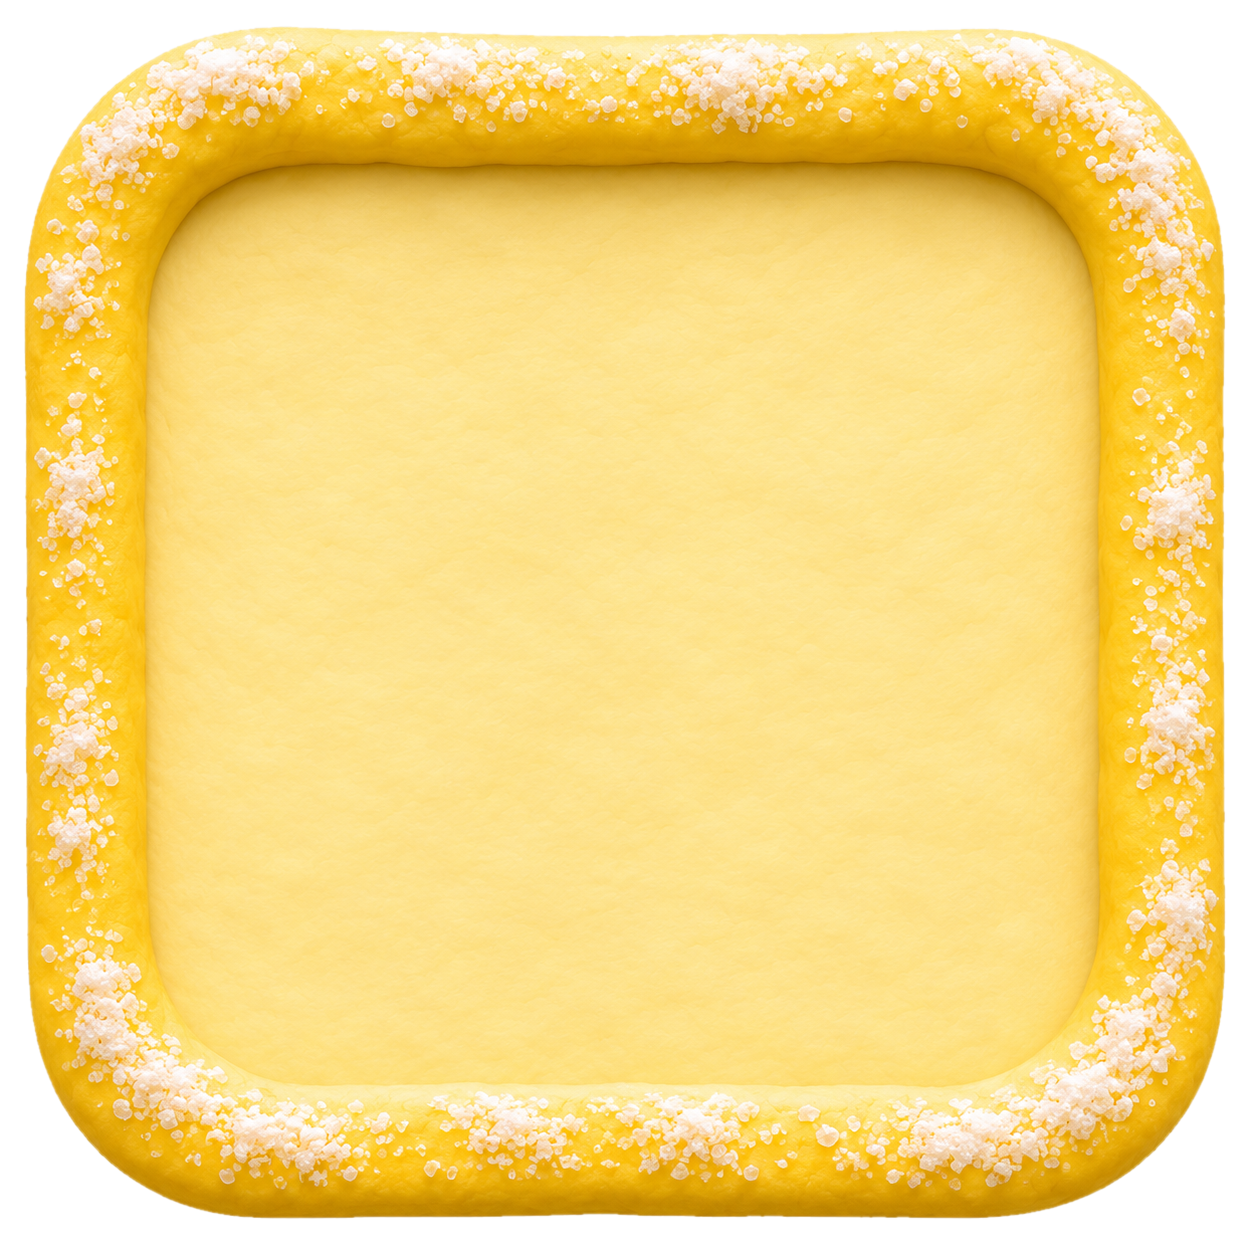
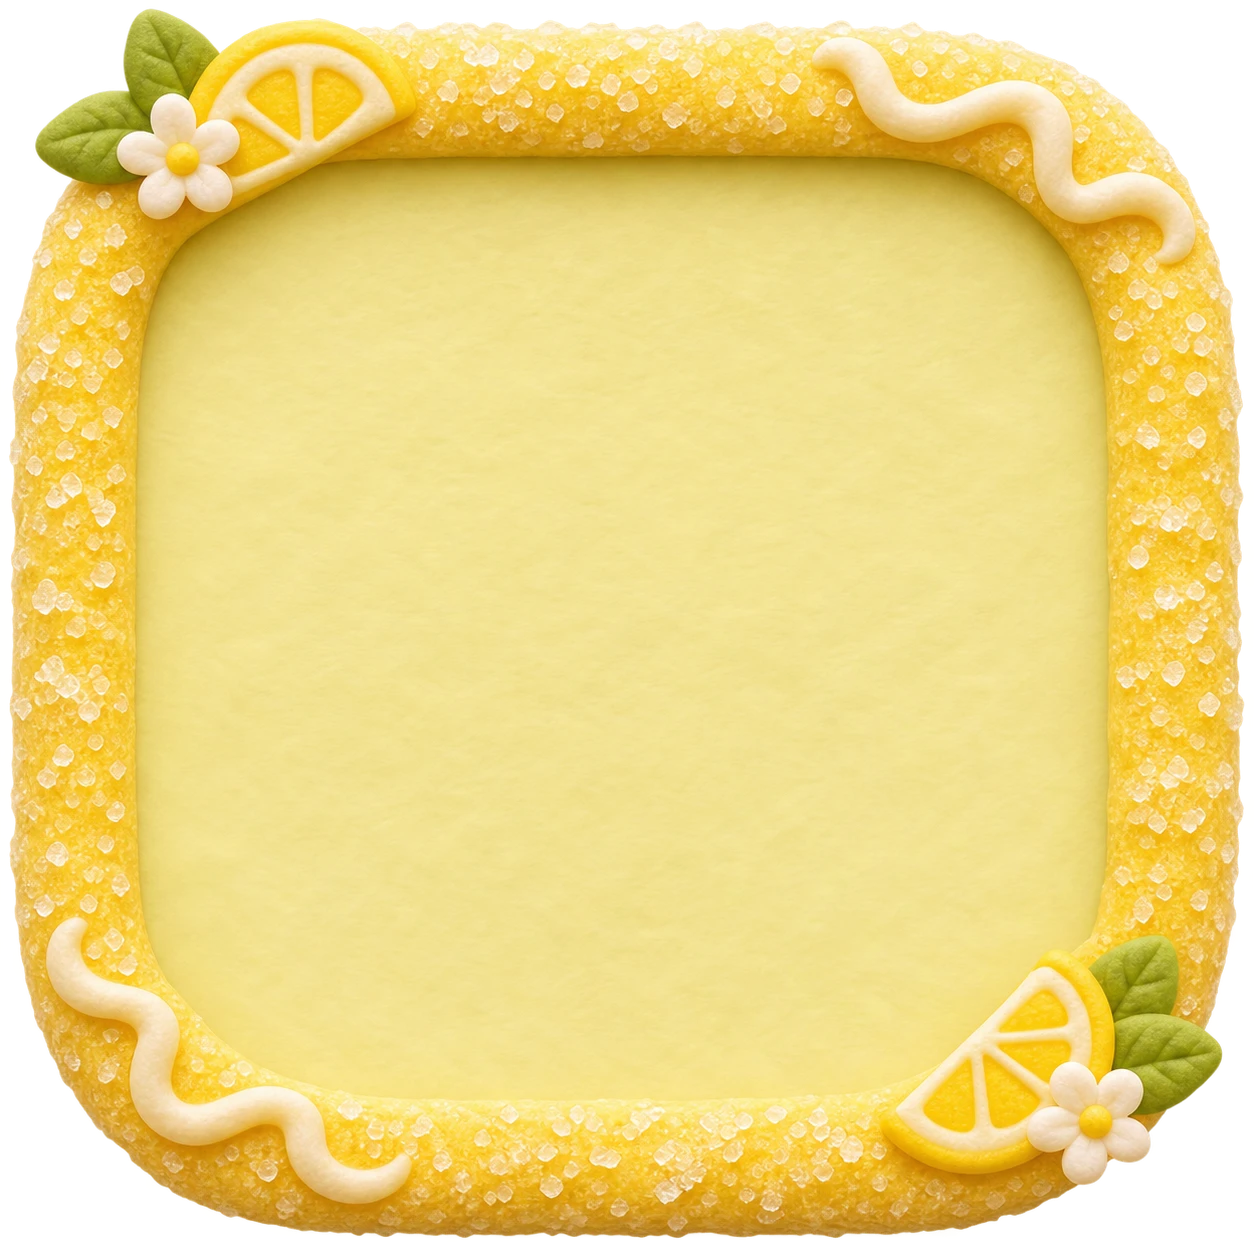
Gece, gün batımı ve çikolata süsleri; orman karosu ve limon tepsisi yenilendi
Claude-Session: https://claude.ai/code/session_013YjY38wA9HkTsRWqx1GxrD

diff --git a/www/sw.js b/www/sw.js
@@ -1,6 +1,6 @@
 // Çevrimdışı: önbellekten anında aç, arkada güncelle (stale-while-revalidate).
 // Yeni dosya eklenince F listesine girer (robot www/ ile listeyi karşılaştırır: tools/hakem.cjs "sw.liste").
-const C = 'hamur-v98', F = ['./', 'index.html', 'style.css', 'i18n.js', 'ses.js', 'olcum.js', 'ads.js', 'shop.js', 'app.js', 'game.js', 'ekran.js', 'acilis.js', 'bolumler.js', 'rules/cekirdek.js', 'rules/cozucu.js', 'font/baloo-latin-ext.woff2', 'font/baloo-latin.woff2', 'font/titan-latin-ext.woff2', 'font/titan-latin.woff2', 'img/ac-kirmizi.webp', 'img/ac-mavi.webp', 'img/ac-mor.webp', 'img/ac-sari.webp', 'img/ac-turuncu.webp', 'img/ac-un-atan.webp', 'img/ac-un-yiyen.webp', 'img/ac-yesil.webp', 'img/acilis-grup.webp', 'img/acilis.webp', 'img/ada-sag.webp', 'img/ada-sol.webp', 'img/ada.webp', 'img/akrep.webp', 'img/ayarlar.webp', 'img/bastan.webp', 'img/blok-b.webp', 'img/blok-g.webp', 'img/blok-krem.webp', 'img/blok-o.webp', 'img/blok-p.webp', 'img/blok-r.webp', 'img/blok-y.webp', 'img/blok.webp', 'img/bulut-1.webp', 'img/bulut-2.webp', 'img/bulut-3.webp', 'img/bulut-4.webp', 'img/bulut-5.webp', 'img/bulut-6.webp', 'img/bulut-seti.webp', 'img/buz.webp', 'img/canta.webp', 'img/damgalar.webp', 'img/doku.webp', 'img/dugme-ayar.webp', 'img/dugme-canta.webp', 'img/dugme-geri.webp', 'img/duraklat.webp', 'img/duvar.webp', 'img/el.webp', 'img/figur-1.webp', 'img/figur-10.webp', 'img/figur-11.webp', 'img/figur-12.webp', 'img/figur-2.webp', 'img/figur-3.webp', 'img/figur-4.webp', 'img/figur-5.webp', 'img/figur-6.webp', 'img/figur-7.webp', 'img/figur-8.webp', 'img/figur-9.webp', 'img/geri.webp', 'img/girdap.webp', 'img/gok-2.webp', 'img/gok-3.webp', 'img/gok-4.webp', 'img/gok-5.webp', 'img/gok-6.webp', 'img/gok-7.webp', 'img/gok-8.webp', 'img/gok-9.webp', 'img/gok-derin.webp', 'img/gok.webp', 'img/gok2.webp', 'img/guc.webp', 'img/gunluk.webp', 'img/hamur-dilim.webp', 'img/hamur-serit.webp', 'img/hap-kirmizi.webp', 'img/hap-mavi.webp', 'img/hap-mor.webp', 'img/hap-sari.webp', 'img/hap-turuncu.webp', 'img/hap-yesil.webp', 'img/hayvan-1.webp', 'img/hayvan-2.webp', 'img/hayvan-3.webp', 'img/hayvan-4.webp', 'img/hayvan-5.webp', 'img/hayvan-6.webp', 'img/hucre-2.webp', 'img/hucre-3.webp', 'img/hucre-4.webp', 'img/hucre-5.webp', 'img/hucre-6.webp', 'img/hucre-7.webp', 'img/hucre-8.webp', 'img/hucre-9.webp', 'img/hucre.webp', 'img/ikon-192.png', 'img/ikon-512.png', 'img/kadran.webp', 'img/kahraman.webp', 'img/kalp-eriyor.webp', 'img/kalp.webp', 'img/kapat.webp', 'img/kar-1.webp', 'img/kar-2.webp', 'img/kar-3-kare.webp', 'img/kar-3.webp', 'img/kar-4-kare.webp', 'img/kar-4.webp', 'img/kar-5.webp', 'img/kar-6.webp', 'img/kat-orta.webp', 'img/kat-uzak.webp', 'img/kat-yakin.webp', 'img/kayip-sure.webp', 'img/kayip-yapisma.webp', 'img/kazanc.webp', 'img/kilit.webp', 'img/klaket.webp', 'img/kurabiye-bos.webp', 'img/kurabiye-kilitli.webp', 'img/kurabiye-siradaki.webp', 'img/kurabiye-tamam.webp', 'img/logo.webp', 'img/m-alev.webp', 'img/m-canta.webp', 'img/m-hediye.webp', 'img/m-kalpler.webp', 'img/m-reklamsiz.webp', 'img/m-sandik.webp', 'img/makas-kapali.webp', 'img/makas.webp', 'img/n-ay.webp', 'img/n-cirpici-1.webp', 'img/n-cirpici-2.webp', 'img/n-donut.webp', 'img/n-ev.webp', 'img/n-merdiven.webp', 'img/n-oklava.webp', 'img/n-seker.webp', 'img/oynat.webp', 'img/panel.webp', 'img/parcacik.webp', 'img/pencere.webp', 'img/rozet.webp', 'img/saat.webp', 'img/serit.webp', 'img/ses.webp', 'img/sessiz.webp', 'img/sus-1.webp', 'img/sus-10.webp', 'img/sus-2.webp', 'img/sus-3.webp', 'img/sus-4.webp', 'img/sus-5.webp', 'img/sus-6.webp', 'img/sus-7.webp', 'img/sus-8.webp', 'img/sus-9.webp', 'img/sus-d4-1.webp', 'img/sus-d4-2.webp', 'img/sus-d4-3.webp', 'img/sus-d4-4.webp', 'img/sus-d4-5.webp', 'img/sus-d4-6.webp', 'img/sus-d5-1.webp', 'img/sus-d5-2.webp', 'img/sus-d5-3.webp', 'img/sus-d5-4.webp', 'img/sus-d5-5.webp', 'img/sus-d5-6.webp', 'img/sus-d7-1.webp', 'img/sus-d7-2.webp', 'img/sus-d7-3.webp', 'img/sus-d7-4.webp', 'img/sus-d7-5.webp', 'img/sus-d7-6.webp', 'img/sus-d8-1.webp', 'img/sus-d8-2.webp', 'img/sus-d8-3.webp', 'img/sus-d8-4.webp', 'img/sus-d8-5.webp', 'img/sus-d8-6.webp', 'img/sus-d9-1.webp', 'img/sus-d9-2.webp', 'img/sus-d9-3.webp', 'img/sus-d9-4.webp', 'img/sus-d9-5.webp', 'img/sus-d9-6.webp', 'img/tarif.webp', 'img/tepsi-2.webp', 'img/tepsi-3.webp', 'img/tepsi-4.webp', 'img/tepsi-5.webp', 'img/tepsi-6.webp', 'img/tepsi-7.webp', 'img/tepsi-8.webp', 'img/tepsi-9.webp', 'img/tepsi.webp', 'img/top-kirmizi.webp', 'img/top-mavi.webp', 'img/top-mor.webp', 'img/top-sari.webp', 'img/top-yesil.webp', 'img/yildiz-bos.webp', 'img/yildiz-yuz.webp', 'img/yildiz.webp', 'img/yol.webp', 'img/yuz-dikey.webp', 'img/yuzler.webp', ...['de', 'es', 'pt-BR', 'fr'].map(l => `lang/${l}.js`), 'ses/kayip.mp3', 'ses/kazan.mp3', 'ses/kes.mp3', 'ses/muzik.mp3', 'ses/otur.mp3', 'ses/yapis.mp3', 'manifest.json'];
+const C = 'hamur-v99', F = ['./', 'index.html', 'style.css', 'i18n.js', 'ses.js', 'olcum.js', 'ads.js', 'shop.js', 'app.js', 'game.js', 'ekran.js', 'acilis.js', 'bolumler.js', 'rules/cekirdek.js', 'rules/cozucu.js', 'font/baloo-latin-ext.woff2', 'font/baloo-latin.woff2', 'font/titan-latin-ext.woff2', 'font/titan-latin.woff2', 'img/ac-kirmizi.webp', 'img/ac-mavi.webp', 'img/ac-mor.webp', 'img/ac-sari.webp', 'img/ac-turuncu.webp', 'img/ac-un-atan.webp', 'img/ac-un-yiyen.webp', 'img/ac-yesil.webp', 'img/acilis-grup.webp', 'img/acilis.webp', 'img/ada-sag.webp', 'img/ada-sol.webp', 'img/ada.webp', 'img/akrep.webp', 'img/ayarlar.webp', 'img/bastan.webp', 'img/blok-b.webp', 'img/blok-g.webp', 'img/blok-krem.webp', 'img/blok-o.webp', 'img/blok-p.webp', 'img/blok-r.webp', 'img/blok-y.webp', 'img/blok.webp', 'img/bulut-1.webp', 'img/bulut-2.webp', 'img/bulut-3.webp', 'img/bulut-4.webp', 'img/bulut-5.webp', 'img/bulut-6.webp', 'img/bulut-seti.webp', 'img/buz.webp', 'img/canta.webp', 'img/damgalar.webp', 'img/doku.webp', 'img/dugme-ayar.webp', 'img/dugme-canta.webp', 'img/dugme-geri.webp', 'img/duraklat.webp', 'img/duvar.webp', 'img/el.webp', 'img/figur-1.webp', 'img/figur-10.webp', 'img/figur-11.webp', 'img/figur-12.webp', 'img/figur-2.webp', 'img/figur-3.webp', 'img/figur-4.webp', 'img/figur-5.webp', 'img/figur-6.webp', 'img/figur-7.webp', 'img/figur-8.webp', 'img/figur-9.webp', 'img/geri.webp', 'img/girdap.webp', 'img/gok-2.webp', 'img/gok-3.webp', 'img/gok-4.webp', 'img/gok-5.webp', 'img/gok-6.webp', 'img/gok-7.webp', 'img/gok-8.webp', 'img/gok-9.webp', 'img/gok-derin.webp', 'img/gok.webp', 'img/gok2.webp', 'img/guc.webp', 'img/gunluk.webp', 'img/hamur-dilim.webp', 'img/hamur-serit.webp', 'img/hap-kirmizi.webp', 'img/hap-mavi.webp', 'img/hap-mor.webp', 'img/hap-sari.webp', 'img/hap-turuncu.webp', 'img/hap-yesil.webp', 'img/hayvan-1.webp', 'img/hayvan-2.webp', 'img/hayvan-3.webp', 'img/hayvan-4.webp', 'img/hayvan-5.webp', 'img/hayvan-6.webp', 'img/hucre-2.webp', 'img/hucre-3.webp', 'img/hucre-4.webp', 'img/hucre-5.webp', 'img/hucre-6.webp', 'img/hucre-7.webp', 'img/hucre-8.webp', 'img/hucre-9.webp', 'img/hucre.webp', 'img/ikon-192.png', 'img/ikon-512.png', 'img/kadran.webp', 'img/kahraman.webp', 'img/kalp-eriyor.webp', 'img/kalp.webp', 'img/kapat.webp', 'img/kar-1.webp', 'img/kar-2.webp', 'img/kar-3-kare.webp', 'img/kar-3.webp', 'img/kar-4-kare.webp', 'img/kar-4.webp', 'img/kar-5.webp', 'img/kar-6.webp', 'img/kat-orta.webp', 'img/kat-uzak.webp', 'img/kat-yakin.webp', 'img/kayip-sure.webp', 'img/kayip-yapisma.webp', 'img/kazanc.webp', 'img/kilit.webp', 'img/klaket.webp', 'img/kurabiye-bos.webp', 'img/kurabiye-kilitli.webp', 'img/kurabiye-siradaki.webp', 'img/kurabiye-tamam.webp', 'img/logo.webp', 'img/m-alev.webp', 'img/m-canta.webp', 'img/m-hediye.webp', 'img/m-kalpler.webp', 'img/m-reklamsiz.webp', 'img/m-sandik.webp', 'img/makas-kapali.webp', 'img/makas.webp', 'img/n-ay.webp', 'img/n-cirpici-1.webp', 'img/n-cirpici-2.webp', 'img/n-donut.webp', 'img/n-ev.webp', 'img/n-merdiven.webp', 'img/n-oklava.webp', 'img/n-seker.webp', 'img/oynat.webp', 'img/panel.webp', 'img/parcacik.webp', 'img/pencere.webp', 'img/rozet.webp', 'img/saat.webp', 'img/serit.webp', 'img/ses.webp', 'img/sessiz.webp', 'img/sus-1.webp', 'img/sus-10.webp', 'img/sus-2.webp', 'img/sus-3.webp', 'img/sus-4.webp', 'img/sus-5.webp', 'img/sus-6.webp', 'img/sus-7.webp', 'img/sus-8.webp', 'img/sus-9.webp', 'img/sus-d2-1.webp', 'img/sus-d2-2.webp', 'img/sus-d2-3.webp', 'img/sus-d2-4.webp', 'img/sus-d2-5.webp', 'img/sus-d2-6.webp', 'img/sus-d3-1.webp', 'img/sus-d3-2.webp', 'img/sus-d3-3.webp', 'img/sus-d3-4.webp', 'img/sus-d3-5.webp', 'img/sus-d3-6.webp', 'img/sus-d4-1.webp', 'img/sus-d4-2.webp', 'img/sus-d4-3.webp', 'img/sus-d4-4.webp', 'img/sus-d4-5.webp', 'img/sus-d4-6.webp', 'img/sus-d5-1.webp', 'img/sus-d5-2.webp', 'img/sus-d5-3.webp', 'img/sus-d5-4.webp', 'img/sus-d5-5.webp', 'img/sus-d5-6.webp', 'img/sus-d6-1.webp', 'img/sus-d6-2.webp', 'img/sus-d6-3.webp', 'img/sus-d6-4.webp', 'img/sus-d6-5.webp', 'img/sus-d6-6.webp', 'img/sus-d7-1.webp', 'img/sus-d7-2.webp', 'img/sus-d7-3.webp', 'img/sus-d7-4.webp', 'img/sus-d7-5.webp', 'img/sus-d7-6.webp', 'img/sus-d8-1.webp', 'img/sus-d8-2.webp', 'img/sus-d8-3.webp', 'img/sus-d8-4.webp', 'img/sus-d8-5.webp', 'img/sus-d8-6.webp', 'img/sus-d9-1.webp', 'img/sus-d9-2.webp', 'img/sus-d9-3.webp', 'img/sus-d9-4.webp', 'img/sus-d9-5.webp', 'img/sus-d9-6.webp', 'img/tarif.webp', 'img/tepsi-2.webp', 'img/tepsi-3.webp', 'img/tepsi-4.webp', 'img/tepsi-5.webp', 'img/tepsi-6.webp', 'img/tepsi-7.webp', 'img/tepsi-8.webp', 'img/tepsi-9.webp', 'img/tepsi.webp', 'img/top-kirmizi.webp', 'img/top-mavi.webp', 'img/top-mor.webp', 'img/top-sari.webp', 'img/top-yesil.webp', 'img/yildiz-bos.webp', 'img/yildiz-yuz.webp', 'img/yildiz.webp', 'img/yol.webp', 'img/yuz-dikey.webp', 'img/yuzler.webp', ...['de', 'es', 'pt-BR', 'fr'].map(l => `lang/${l}.js`), 'ses/kayip.mp3', 'ses/kazan.mp3', 'ses/kes.mp3', 'ses/muzik.mp3', 'ses/otur.mp3', 'ses/yapis.mp3', 'manifest.json'];
 self.addEventListener('install', e => e.waitUntil(caches.open(C).then(c => c.addAll(F)).then(() => self.skipWaiting())));
 self.addEventListener('activate', e => e.waitUntil(caches.keys().then(k => Promise.all(k.filter(x => x !== C).map(x => caches.delete(x)))).then(() => self.clients.claim())));
 self.addEventListener('fetch', e => {

diff --git a/www/game.js b/www/game.js
@@ -33,7 +33,7 @@ const lighten = (h, t) => '#' + rgb(h).map(v => Math.round(v + (255 - v) * t).to
 const tone = Ses.fx, buzz = Ses.buzz;
 // Görseller (docs/gorseller kaynaklarından küçültüldü). Yüklenene kadar düz renkle çizilir; oyun görselsiz de çalışır.
 const TEMA_GORSEL = ['tepsi-2', 'hucre-2', 'tepsi-3', 'hucre-3', 'tepsi-4', 'hucre-4', 'tepsi-5', 'hucre-5', 'tepsi-6', 'hucre-6', 'tepsi-7', 'hucre-7', 'tepsi-8', 'hucre-8', 'tepsi-9', 'hucre-9'];
-const CUKUR = { 1: '#5a2a66', 2: '#a8642c', 3: '#5fb98a', 4: '#4f9fd0', 5: '#5a3018', 6: '#7fb0d8', 7: '#d9a520', 8: '#a880d8' };   // dünyaya göre kalıp çukurunun rengi   // dünya temalarının kendi tepsi ve karo görselleri geldikçe buraya yazılır: 'tepsi-2', 'hucre-2', 'tepsi-3', 'hucre-3'
+const CUKUR = { 1: '#5a2a66', 2: '#a8642c', 3: '#5fb98a', 4: '#86b53c', 5: '#5a3018', 6: '#7fb0d8', 7: '#d9a520', 8: '#a880d8' };   // dünyaya göre kalıp çukurunun rengi   // dünya temalarının kendi tepsi ve karo görselleri geldikçe buraya yazılır: 'tepsi-2', 'hucre-2', 'tepsi-3', 'hucre-3'
 const IMG = {};
 for (const ad of ['tepsi', 'duvar', 'blok', 'yuzler', 'makas', 'makas-kapali', 'damgalar', 'yuz-dikey', 'parcacik', 'el', 'hucre', 'girdap', 'buz', ...TEMA_GORSEL]) { const im = new Image(); im.onload = () => { IMG[ad] = im; if (ad === 'blok') blokHazirla(im); if (ad === 'girdap') { const c = document.createElement('canvas'); c.width = c.height = 128; const x = c.getContext('2d', { willReadFrequently: true }); x.drawImage(im, 0, 0, 128, 128); maske = x.getImageData(0, 0, 128, 128).data; } }; im.src = 'img/' + ad + '.webp'; }
 

diff --git a/www/ekran.js b/www/ekran.js
@@ -60,7 +60,7 @@ const DUNYA = [['Hamur Diyarı', 'Dough Land', null], ['Gece Fırını', 'Night 
   ['Kurabiye Ormanı', 'Cookie Forest', [110, 185, 235]], ['Çikolata Vadisi', 'Chocolate Valley', [140, 92, 62]], ['Kış Masalı', 'Winter Tale', [175, 215, 240]], ['Limon Bahçesi', 'Lemon Grove', [245, 225, 105]], ['Gökkuşağı', 'Rainbow', [215, 180, 240]]];
 const dunyaNo = n => Math.min(DUNYA.length - 1, Math.floor((n - 1) / 60));
 const dunyaRenk = (n, a) => { const r = DUNYA[dunyaNo(Math.max(1, n))][2]; return r ? `rgba(${r.join(',')},${a})` : 'rgba(201,168,238,0)'; };
-const SUS_DUNYA = new Set([4, 5, 7, 8, 9]);   // kendi süs seti olan dünyalar (sus-dN-1…6)
+const SUS_DUNYA = new Set([2, 3, 4, 5, 6, 7, 8, 9]);   // kendi süs seti olan dünyalar (sus-dN-1…6)
 function yol() {
   const el = $('yol'), sira = siradaki(); el.innerHTML = '';
   const karoSay = Math.ceil(N / DURAK.length);
